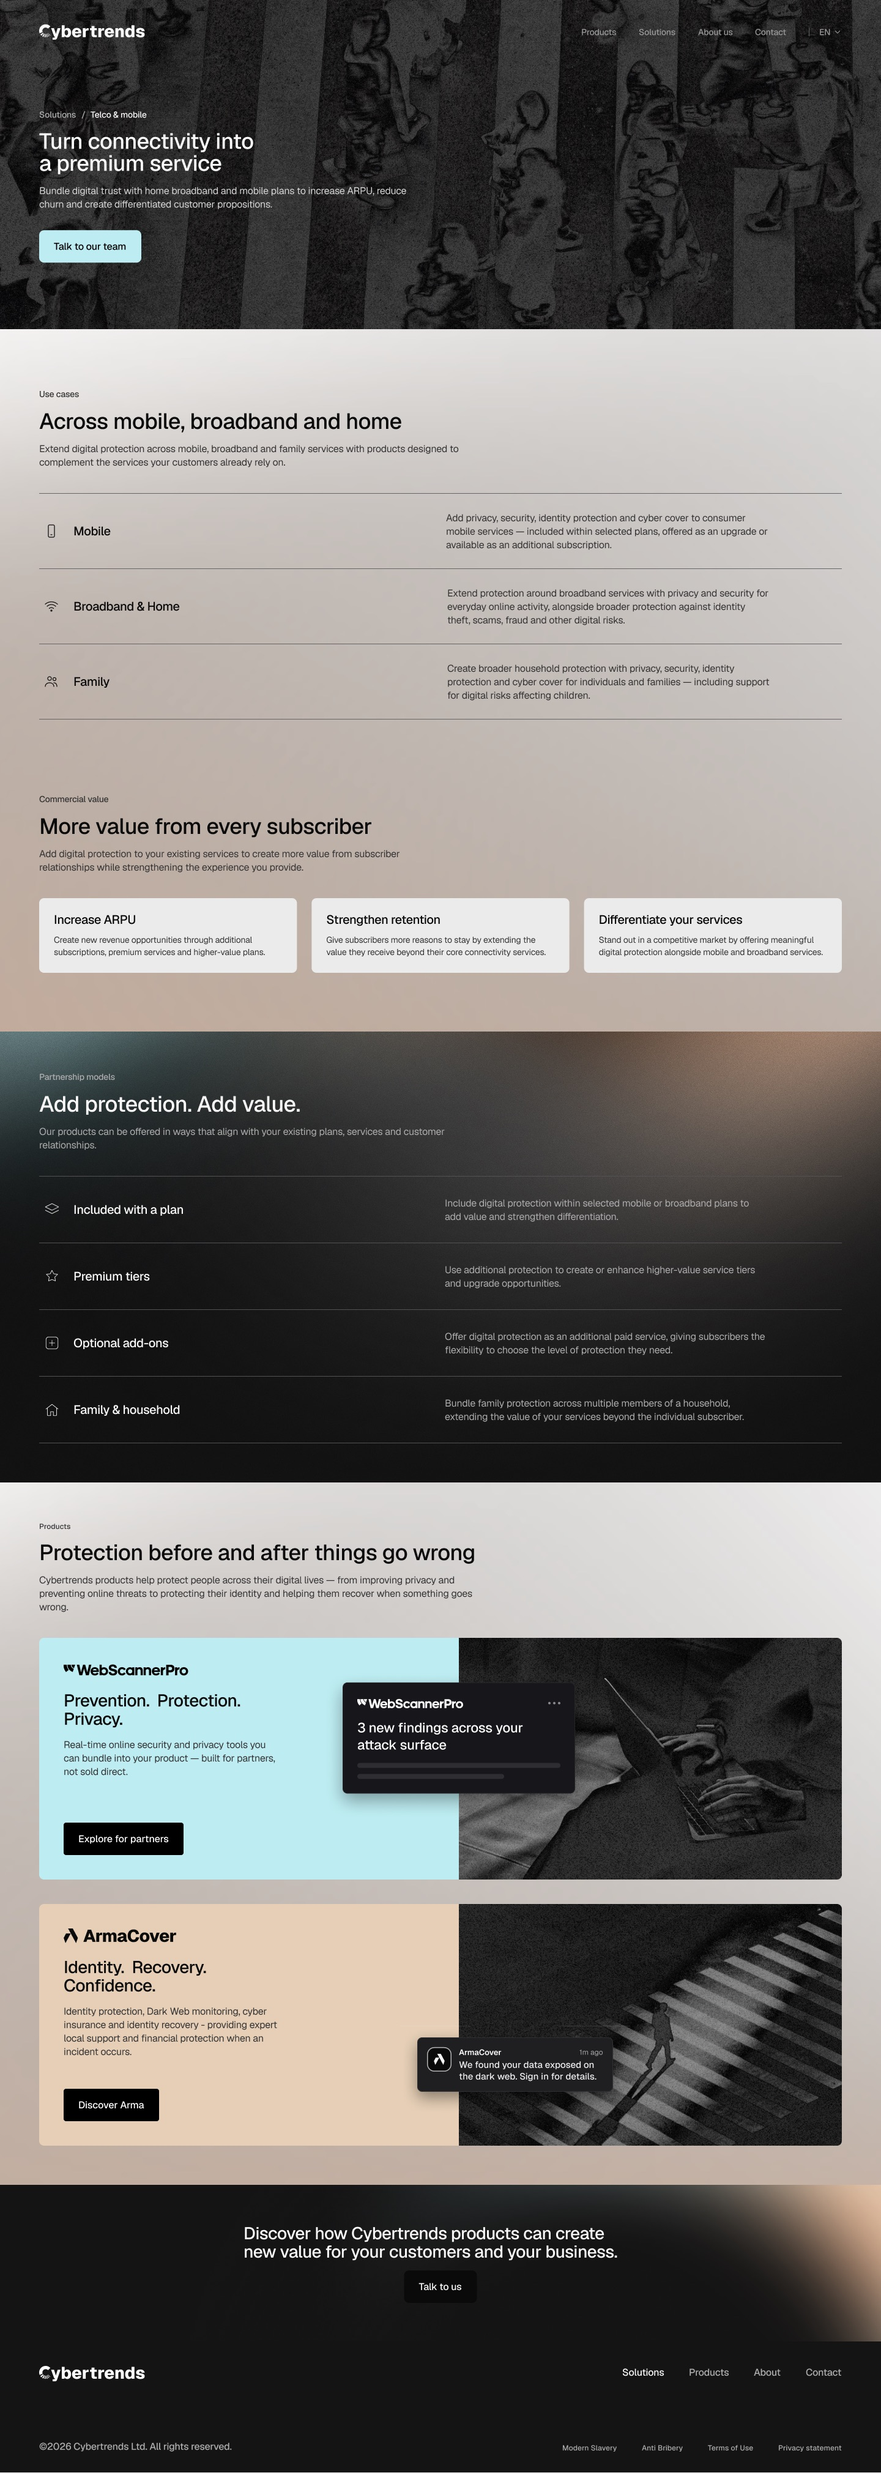
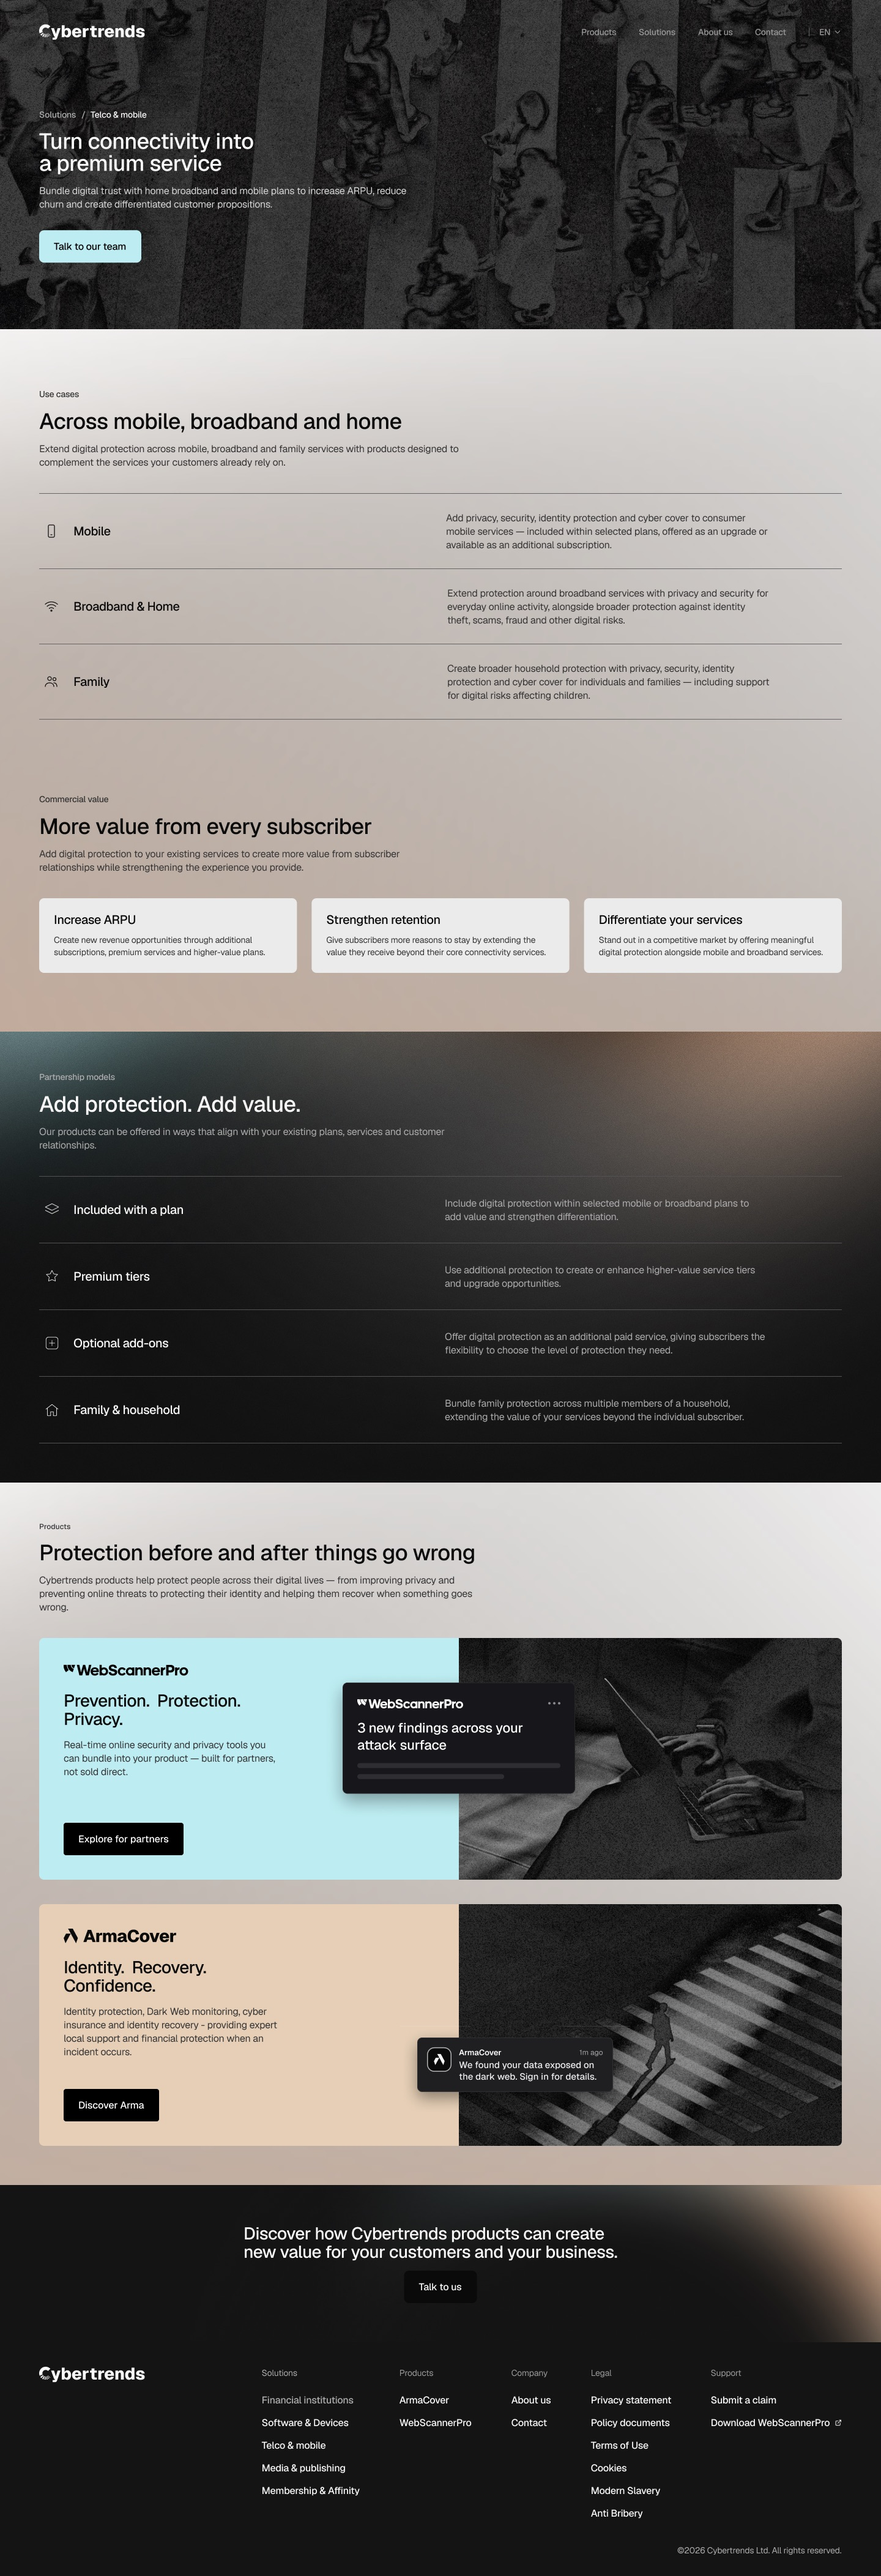
Cybertrends: new Telco & mobile page, add contact page

diff --git a/project-cybertrends.html b/project-cybertrends.html
@@ -19,7 +19,7 @@
 <meta name="twitter:title" content="Cybertrends — Eliška Doležalová" />
 <meta name="twitter:description" content="Product &amp; visual designer based in Prague — brand, web and product design." />
 <meta name="twitter:image" content="https://elisdolezalova.cz/images/og-image.png" />
-<link rel="stylesheet" href="styles.css?v=20261014w" />
+<link rel="stylesheet" href="styles.css?v=20261014x" />
 </head>
 <body class="page-project">
 
@@ -87,9 +87,10 @@
 
   <!-- GALLERY -->
   <section class="pj-gallery-wrap wrap">
-    <div class="pj-gallery pj-gallery--pages pj-gallery--n2" data-gallery>
+    <div class="pj-gallery pj-gallery--pages pj-gallery--n3" data-gallery>
       <button class="pj-fig pj-fig--page" type="button"><img src="images/projects/cybertrends/homepage.jpg" alt="Cybertrends homepage, full page on desktop" loading="lazy" /><span class="pj-hint" aria-hidden="true"><svg viewBox="0 0 16 16" width="14" height="14" fill="none" stroke="currentColor" stroke-width="1.4" stroke-linecap="round" stroke-linejoin="round"><path d="M9.5 2.5H13.5V6.5M13.5 2.5 8.5 7.5M6.5 13.5H2.5V9.5M2.5 13.5 7.5 8.5"/></svg><span class="pj-hint-hover">Click to view full page</span><span class="pj-hint-touch">Tap to view full page</span></span></button>
-      <button class="pj-fig pj-fig--page" type="button"><img src="images/projects/cybertrends/telco-mobile.jpg" alt="Cybertrends Telco &amp; mobile solution page" loading="lazy" /><span class="pj-hint" aria-hidden="true"><svg viewBox="0 0 16 16" width="14" height="14" fill="none" stroke="currentColor" stroke-width="1.4" stroke-linecap="round" stroke-linejoin="round"><path d="M9.5 2.5H13.5V6.5M13.5 2.5 8.5 7.5M6.5 13.5H2.5V9.5M2.5 13.5 7.5 8.5"/></svg><span class="pj-hint-hover">Click to view full page</span><span class="pj-hint-touch">Tap to view full page</span></span></button>
+      <button class="pj-fig pj-fig--page" type="button"><img src="images/projects/cybertrends/telco-mobile.jpg?v=2" alt="Cybertrends Telco &amp; mobile solution page" loading="lazy" /><span class="pj-hint" aria-hidden="true"><svg viewBox="0 0 16 16" width="14" height="14" fill="none" stroke="currentColor" stroke-width="1.4" stroke-linecap="round" stroke-linejoin="round"><path d="M9.5 2.5H13.5V6.5M13.5 2.5 8.5 7.5M6.5 13.5H2.5V9.5M2.5 13.5 7.5 8.5"/></svg><span class="pj-hint-hover">Click to view full page</span><span class="pj-hint-touch">Tap to view full page</span></span></button>
+      <button class="pj-fig pj-fig--page" type="button" style="--page-fill:#121212"><img src="images/projects/cybertrends/contact.jpg" alt="Cybertrends contact page: ways to reach the team" loading="lazy" /><span class="pj-hint" aria-hidden="true"><svg viewBox="0 0 16 16" width="14" height="14" fill="none" stroke="currentColor" stroke-width="1.4" stroke-linecap="round" stroke-linejoin="round"><path d="M9.5 2.5H13.5V6.5M13.5 2.5 8.5 7.5M6.5 13.5H2.5V9.5M2.5 13.5 7.5 8.5"/></svg><span class="pj-hint-hover">Click to view full page</span><span class="pj-hint-touch">Tap to view full page</span></span></button>
     </div>
   </section>
 
@@ -144,6 +145,6 @@
     </div>
   </footer>
 
-  <script src="reveal.js?v=20261014s"></script>
+  <script src="reveal.js?v=20261014t"></script>
 </body>
 </html>

diff --git a/import-metadata.html b/import-metadata.html
@@ -19,7 +19,7 @@
 <meta name="twitter:title" content="Importing metadata in 3 clicks instead of 10 — Eliška Doležalová" />
 <meta name="twitter:description" content="Redesigning Ataccama ONE's metadata import. Designed in Figma, validated with consultants, then prototyped in code to test it for real." />
 <meta name="twitter:image" content="https://elisdolezalova.cz/images/og-image.png" />
-<link rel="stylesheet" href="styles.css?v=20261014w" />
+<link rel="stylesheet" href="styles.css?v=20261014x" />
 </head>
 <body class="page-project">
 
@@ -160,6 +160,6 @@
     </div>
   </footer>
 
-  <script src="reveal.js?v=20261014s"></script>
+  <script src="reveal.js?v=20261014t"></script>
 </body>
 </html>

diff --git a/project-odstrcil.html b/project-odstrcil.html
@@ -19,7 +19,7 @@
 <meta name="twitter:title" content="Odstrčil, Craft Jewellery — Eliška Doležalová" />
 <meta name="twitter:description" content="Product &amp; visual designer based in Prague — brand, web and product design." />
 <meta name="twitter:image" content="https://elisdolezalova.cz/images/og-image.png" />
-<link rel="stylesheet" href="styles.css?v=20261014w" />
+<link rel="stylesheet" href="styles.css?v=20261014x" />
 </head>
 <body class="page-project">
 
@@ -159,6 +159,6 @@
     </div>
   </footer>
 
-  <script src="reveal.js?v=20261014s"></script>
+  <script src="reveal.js?v=20261014t"></script>
 </body>
 </html>

diff --git a/project-cfg.html b/project-cfg.html
@@ -19,7 +19,7 @@
 <meta name="twitter:title" content="Comfort Finance Group — Eliška Doležalová" />
 <meta name="twitter:description" content="A unified web presence for a Czech financial group and its family of fintech brands." />
 <meta name="twitter:image" content="https://elisdolezalova.cz/images/og-image.png" />
-<link rel="stylesheet" href="styles.css?v=20261014w" />
+<link rel="stylesheet" href="styles.css?v=20261014x" />
 </head>
 <body class="page-project">
 
@@ -145,6 +145,6 @@
     </div>
   </footer>
 
-  <script src="reveal.js?v=20261014s"></script>
+  <script src="reveal.js?v=20261014t"></script>
 </body>
 </html>

diff --git a/project-prague-pride.html b/project-prague-pride.html
@@ -19,7 +19,7 @@
 <meta name="twitter:title" content="Prague Pride Festival — Eliška Doležalová" />
 <meta name="twitter:description" content="Product &amp; visual designer based in Prague — brand, web and product design." />
 <meta name="twitter:image" content="https://elisdolezalova.cz/images/og-image.png" />
-<link rel="stylesheet" href="styles.css?v=20261014w" />
+<link rel="stylesheet" href="styles.css?v=20261014x" />
 </head>
 <body class="page-project">
 
@@ -161,6 +161,6 @@
     </div>
   </footer>
 
-  <script src="reveal.js?v=20261014s"></script>
+  <script src="reveal.js?v=20261014t"></script>
 </body>
 </html>

diff --git a/asset-layout-editor.html b/asset-layout-editor.html
@@ -19,7 +19,7 @@
 <meta name="twitter:title" content="Asset Layout Editor — Eliška Doležalová" />
 <meta name="twitter:description" content="Product &amp; visual designer based in Prague — brand, web and product design." />
 <meta name="twitter:image" content="https://elisdolezalova.cz/images/og-image.png" />
-<link rel="stylesheet" href="styles.css?v=20261014w" />
+<link rel="stylesheet" href="styles.css?v=20261014x" />
 </head>
 <body class="page-project">
 
@@ -156,6 +156,6 @@
     </div>
   </footer>
 
-  <script src="reveal.js?v=20261014s"></script>
+  <script src="reveal.js?v=20261014t"></script>
 </body>
 </html>

diff --git a/project-prague-pride-merch.html b/project-prague-pride-merch.html
@@ -19,7 +19,7 @@
 <meta name="twitter:title" content="Prague Pride Merch — Eliška Doležalová" />
 <meta name="twitter:description" content="Product &amp; visual designer based in Prague — brand, web and product design." />
 <meta name="twitter:image" content="https://elisdolezalova.cz/images/og-image.png" />
-<link rel="stylesheet" href="styles.css?v=20261014w" />
+<link rel="stylesheet" href="styles.css?v=20261014x" />
 </head>
 <body class="page-project">
 
@@ -160,6 +160,6 @@
     </div>
   </footer>
 
-  <script src="reveal.js?v=20261014s"></script>
+  <script src="reveal.js?v=20261014t"></script>
 </body>
 </html>

diff --git a/project-duhova-stuzka.html b/project-duhova-stuzka.html
@@ -19,7 +19,7 @@
 <meta name="twitter:title" content="Duhová stužka — Eliška Doležalová" />
 <meta name="twitter:description" content="Product &amp; visual designer based in Prague — brand, web and product design." />
 <meta name="twitter:image" content="https://elisdolezalova.cz/images/og-image.png" />
-<link rel="stylesheet" href="styles.css?v=20261014w" />
+<link rel="stylesheet" href="styles.css?v=20261014x" />
 </head>
 <body class="page-project">
 
@@ -163,6 +163,6 @@
     </div>
   </footer>
 
-  <script src="reveal.js?v=20261014s"></script>
+  <script src="reveal.js?v=20261014t"></script>
 </body>
 </html>

diff --git a/project-webscannerpro.html b/project-webscannerpro.html
@@ -19,7 +19,7 @@
 <meta name="twitter:title" content="WebScannerPro — Eliška Doležalová" />
 <meta name="twitter:description" content="Product &amp; visual designer based in Prague — brand, web and product design." />
 <meta name="twitter:image" content="https://elisdolezalova.cz/images/og-image.png" />
-<link rel="stylesheet" href="styles.css?v=20261014w" />
+<link rel="stylesheet" href="styles.css?v=20261014x" />
 </head>
 <body class="page-project">
 
@@ -160,6 +160,6 @@
     </div>
   </footer>
 
-  <script src="reveal.js?v=20261014s"></script>
+  <script src="reveal.js?v=20261014t"></script>
 </body>
 </html>

diff --git a/project-dluhopisomat.html b/project-dluhopisomat.html
@@ -19,7 +19,7 @@
 <meta name="twitter:title" content="Dluhopisomat — Eliška Doležalová" />
 <meta name="twitter:description" content="Product &amp; visual designer based in Prague — brand, web and product design." />
 <meta name="twitter:image" content="https://elisdolezalova.cz/images/og-image.png" />
-<link rel="stylesheet" href="styles.css?v=20261014w" />
+<link rel="stylesheet" href="styles.css?v=20261014x" />
 </head>
 <body class="page-project">
 
@@ -161,6 +161,6 @@
     </div>
   </footer>
 
-  <script src="reveal.js?v=20261014s"></script>
+  <script src="reveal.js?v=20261014t"></script>
 </body>
 </html>

diff --git a/project-esens.html b/project-esens.html
@@ -19,7 +19,7 @@
 <meta name="twitter:title" content="Esens Letná — Eliška Doležalová" />
 <meta name="twitter:description" content="Product &amp; visual designer based in Prague — brand, web and product design." />
 <meta name="twitter:image" content="https://elisdolezalova.cz/images/og-image.png" />
-<link rel="stylesheet" href="styles.css?v=20261014w" />
+<link rel="stylesheet" href="styles.css?v=20261014x" />
 </head>
 <body class="page-project">
 
@@ -144,6 +144,6 @@
     </div>
   </footer>
 
-  <script src="reveal.js?v=20261014s"></script>
+  <script src="reveal.js?v=20261014t"></script>
 </body>
 </html>

diff --git a/project-1webit.html b/project-1webit.html
@@ -19,7 +19,7 @@
 <meta name="twitter:title" content="1. Web IT — Eliška Doležalová" />
 <meta name="twitter:description" content="Product &amp; visual designer based in Prague — brand, web and product design." />
 <meta name="twitter:image" content="https://elisdolezalova.cz/images/og-image.png" />
-<link rel="stylesheet" href="styles.css?v=20261014w" />
+<link rel="stylesheet" href="styles.css?v=20261014x" />
 </head>
 <body class="page-project">
 
@@ -164,6 +164,6 @@
     </div>
   </footer>
 
-  <script src="reveal.js?v=20261014s"></script>
+  <script src="reveal.js?v=20261014t"></script>
 </body>
 </html>
